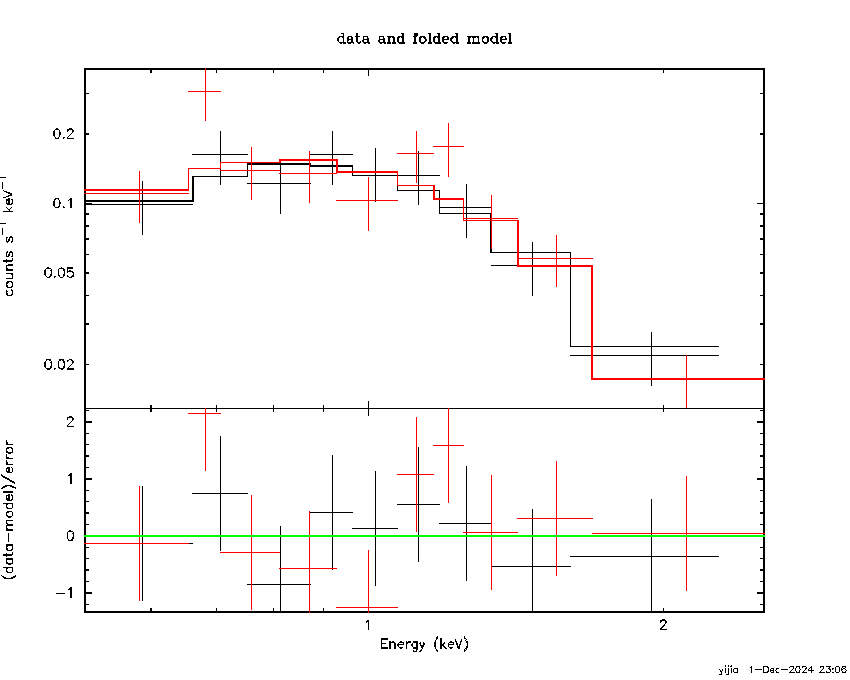
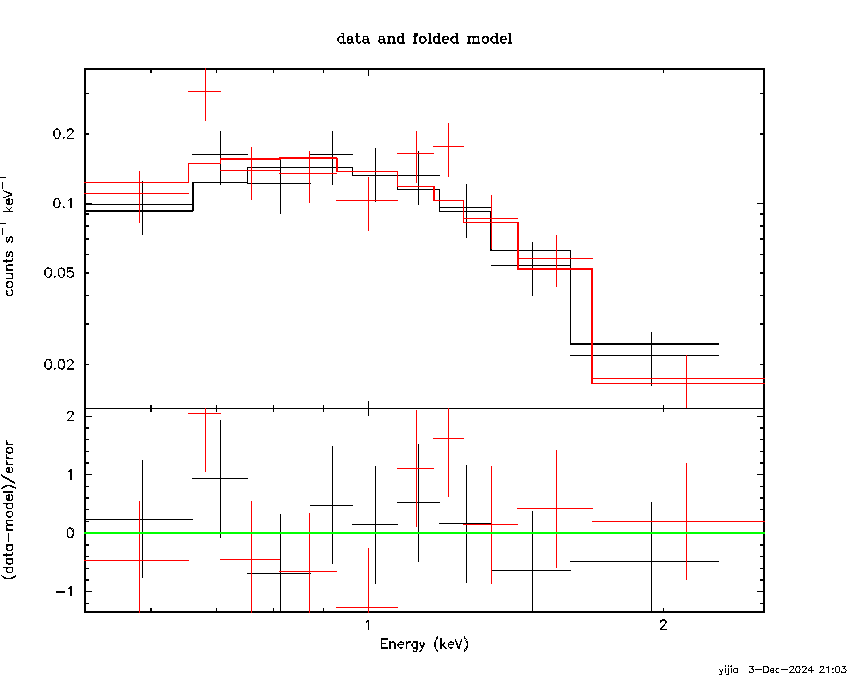
fix some bugs

diff --git a/plot_ULX.py b/plot_ULX.py
@@ -51,7 +51,6 @@ for source_name in source_name_list:
     ax_NH = fig.add_subplot(gs[5, :])
 
     for i in range(len(obsid_list_target)):
-        print(np.array(source_info[obsid_list_target[i]])[source_name_list==source_name][0])
         source_obs_id = np.array(source_info[obsid_list_target[i]])[source_name_list==source_name][0]
 
         source0, ra_axis0, dec_axis0, angle0  = get_coord_wcs('data/' + obsid_list_target[i] + '/a/' + source_obs_id + '.reg')
@@ -95,6 +94,10 @@ for source_name in source_name_list:
 
         ## plot the fitting results
 
+        fit_img_path = 'data/' + obsid_list_target[i] + '/fit_image/' + source_obs_id + '.png'
+        if not os.path.exists(fit_img_path):
+            continue
+
         fit_result_file = 'data/' + obsid_list_target[i] + '/' + source_obs_id + '_fit_results.csv'
         fit_result = pd.read_csv(fit_result_file)
         para = np.array(fit_result['para'])
@@ -102,16 +105,14 @@ for source_name in source_name_list:
         value_down = np.array(fit_result['value_down'])
         value_up = np.array(fit_result['value_up'])
 
-        fit_img_path = 'data/' + obsid_list_target[i] + '/fit_image/' + source_obs_id + '.png'
-        if not os.path.exists(fit_img_path):
-            continue
-
         t0 = Time(hdr['DATE-OBS'], format='isot', scale='utc')
         fitting_result = mpimg.imread(fit_img_path)
         ax_fitting = fig.add_subplot(gs[1:3, 2*i:(2*i+2)])
         ax_fitting.imshow(fitting_result, aspect='auto')
         ax_fitting.set_xticks([])
         ax_fitting.set_yticks([])
+        print(obsid_list_target[i])
+        print(np.array(source_info[obsid_list_target[i]])[source_name_list==source_name][0])
         ax_fitting.set_title(r'$\rm \chi^2/dof$ ' + format(value[para=='dof'][0], '.1f') + '/' + str(int(value_up[para=='dof'][0])), fontsize=20)
 
         ax_flux.plot([t0.mjd, t0.mjd], [value_down[para=='Flux'][0], value_up[para=='Flux'][0]], color='blue')
